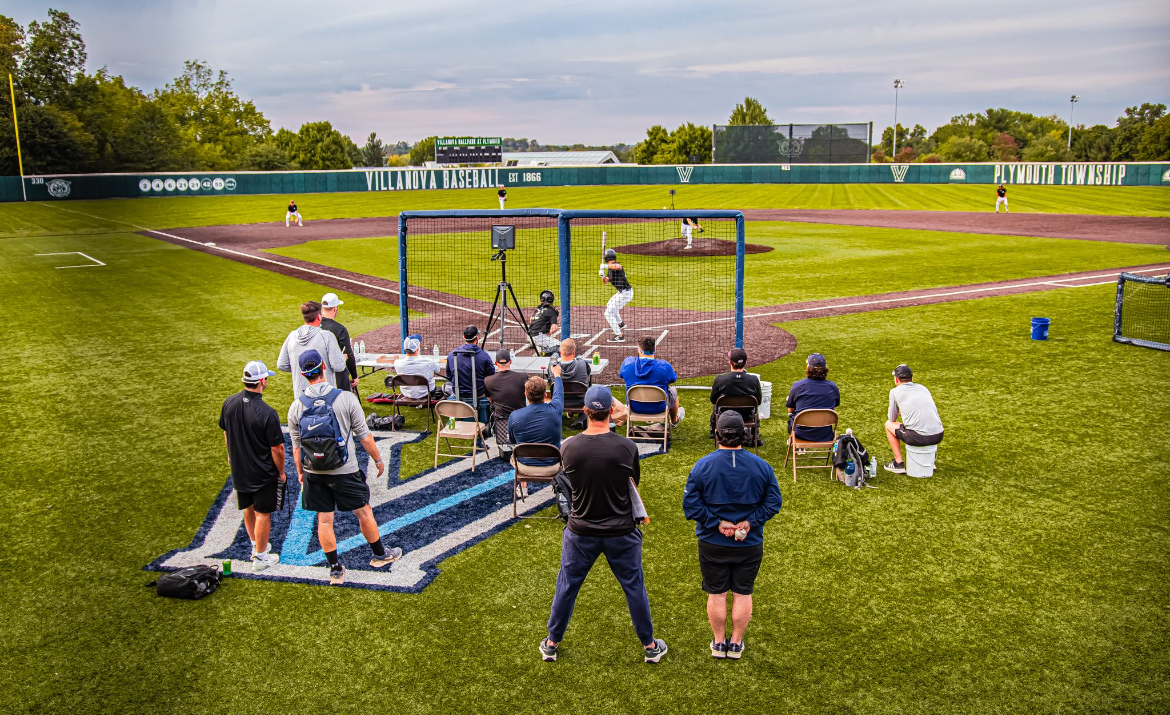
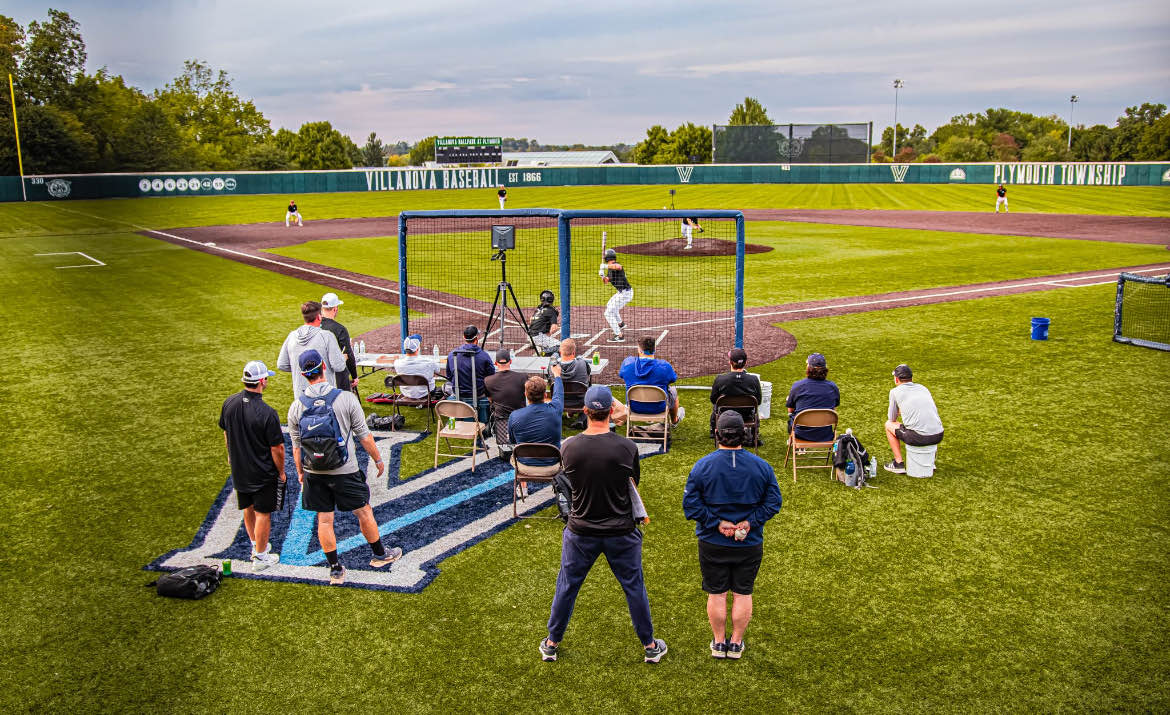
SEO: compress images (24MB→2MB), add breadcrumbs, improve schema, convert PNGs to JPG

diff --git a/index.html b/index.html
@@ -34,22 +34,40 @@
     <link rel="canonical" href="https://nextlevelprospects.vercel.app/">
     <meta name="theme-color" content="#000000">
 
-    <!-- Structured Data -->
+    <!-- Structured Data: Organization -->
     <script type="application/ld+json">
     {
       "@context": "https://schema.org",
-      "@type": "ProfessionalService",
+      "@type": "Organization",
       "name": "Next Level Prospects",
-      "description": "Elite college baseball recruiting advisory guiding student-athletes and families through the recruiting process.",
+      "description": "Elite college baseball recruiting advisory guiding student-athletes and families through every step of the college recruiting process. Trusted connections with coaches at D1, D2, D3, JUCO, and NAIA programs.",
       "url": "https://nextlevelprospects.vercel.app",
       "telephone": "+1-215-275-7667",
       "email": "nextlevelprospectsdo@gmail.com",
+      "logo": "https://nextlevelprospects.vercel.app/images/NLP_Logo.jpg",
+      "image": "https://nextlevelprospects.vercel.app/images/NLP_Logo.jpg",
       "founder": {"@type": "Person", "name": "Dan Overcash"},
       "foundingDate": "2011",
       "sameAs": ["https://x.com/NextLVLProspect"],
       "areaServed": {"@type": "Country", "name": "United States"},
-      "serviceType": "College Baseball Recruiting Advisory",
-      "priceRange": "$$"
+      "knowsAbout": ["College Baseball Recruiting", "D1 Baseball", "D3 Baseball", "NAIA Baseball", "JUCO Baseball", "Student Athlete Development"],
+      "aggregateRating": {
+        "@type": "AggregateRating",
+        "ratingValue": "5.0",
+        "reviewCount": "32",
+        "bestRating": "5"
+      }
+    }
+    </script>
+
+    <!-- Structured Data: BreadcrumbList -->
+    <script type="application/ld+json">
+    {
+      "@context": "https://schema.org",
+      "@type": "BreadcrumbList",
+      "itemListElement": [
+        {"@type": "ListItem", "position": 1, "name": "Home", "item": "https://nextlevelprospects.vercel.app/"}
+      ]
     }
     </script>
 </head>
@@ -190,13 +208,13 @@
             <div class="commits-slider commits-slider--mobile">
                 <div class="commits-slider__track">
                     <div class="commit-card">
-                        <img src="images/commits/Frankie_PNG.png" alt="Frankie - Commit" class="commit-card__image">
+                        <img src="images/commits/Frankie_PNG.jpg" alt="Frankie - Commit" class="commit-card__image">
                     </div>
                     <div class="commit-card">
-                        <img src="images/commits/Caplan_PNG.png" alt="Caplan - Commit" class="commit-card__image">
+                        <img src="images/commits/Caplan_PNG.jpg" alt="Caplan - Commit" class="commit-card__image">
                     </div>
                     <div class="commit-card">
-                        <img src="images/commits/Freed.PNG" alt="Freed - Commit" class="commit-card__image">
+                        <img src="images/commits/Freed.jpg" alt="Freed - Commit" class="commit-card__image">
                     </div>
                     <div class="commit-card">
                         <img src="images/commits/commit-1.jpg" alt="Uli - Commit" class="commit-card__image">
@@ -208,22 +226,22 @@
                         <img src="images/commits/commit-3.jpg" alt="Ruggiero - Commit" class="commit-card__image">
                     </div>
                     <div class="commit-card">
-                        <img src="images/commits/bowman.PNG" alt="Bowman - NC State" class="commit-card__image">
+                        <img src="images/commits/bowman.jpg" alt="Bowman - NC State" class="commit-card__image">
                     </div>
                     <div class="commit-card">
-                        <img src="images/commits/olson.PNG" alt="Olson - Coastal Carolina" class="commit-card__image">
+                        <img src="images/commits/olson.jpg" alt="Olson - Coastal Carolina" class="commit-card__image">
                     </div>
                     <div class="commit-card">
-                        <img src="images/commits/ecker.PNG" alt="Ecker - William & Mary" class="commit-card__image">
+                        <img src="images/commits/ecker.jpg" alt="Ecker - William & Mary" class="commit-card__image">
                     </div>
                     <div class="commit-card">
-                        <img src="images/commits/koshkin.PNG" alt="Decembrino - DeSales" class="commit-card__image">
+                        <img src="images/commits/koshkin.jpg" alt="Decembrino - DeSales" class="commit-card__image">
                     </div>
                     <div class="commit-card">
-                        <img src="images/commits/nova.PNG" alt="Caplan - Rochester Institute of Tech" class="commit-card__image">
+                        <img src="images/commits/nova.jpg" alt="Caplan - Rochester Institute of Tech" class="commit-card__image">
                     </div>
                     <div class="commit-card">
-                        <img src="images/commits/taylor.PNG" alt="Taylor - UMBC" class="commit-card__image">
+                        <img src="images/commits/taylor.jpg" alt="Taylor - UMBC" class="commit-card__image">
                     </div>
                 </div>
                 <div class="commits-slider__nav">

diff --git a/commits.html b/commits.html
@@ -9,6 +9,19 @@
     <link rel="preconnect" href="https://fonts.gstatic.com" crossorigin>
     <link href="https://fonts.googleapis.com/css2?family=Montserrat:wght@300;400;500;600;700;800&family=Playfair+Display:wght@400;500;600;700&display=swap" rel="stylesheet">
     <link rel="stylesheet" href="css/styles.css">
+    <link rel="canonical" href="https://nextlevelprospects.vercel.app/commits.html">
+
+    <!-- Structured Data: BreadcrumbList -->
+    <script type="application/ld+json">
+    {
+      "@context": "https://schema.org",
+      "@type": "BreadcrumbList",
+      "itemListElement": [
+        {"@type": "ListItem", "position": 1, "name": "Home", "item": "https://nextlevelprospects.vercel.app/"},
+        {"@type": "ListItem", "position": 2, "name": "Our Commits", "item": "https://nextlevelprospects.vercel.app/commits.html"}
+      ]
+    }
+    </script>
 </head>
 <body>
     <!-- Navigation -->

diff --git a/gallery.html b/gallery.html
@@ -9,6 +9,19 @@
     <link rel="preconnect" href="https://fonts.gstatic.com" crossorigin>
     <link href="https://fonts.googleapis.com/css2?family=Montserrat:wght@300;400;500;600;700;800&family=Playfair+Display:wght@400;500;600;700&display=swap" rel="stylesheet">
     <link rel="stylesheet" href="css/styles.css">
+    <link rel="canonical" href="https://nextlevelprospects.vercel.app/gallery.html">
+
+    <!-- Structured Data: BreadcrumbList -->
+    <script type="application/ld+json">
+    {
+      "@context": "https://schema.org",
+      "@type": "BreadcrumbList",
+      "itemListElement": [
+        {"@type": "ListItem", "position": 1, "name": "Home", "item": "https://nextlevelprospects.vercel.app/"},
+        {"@type": "ListItem", "position": 2, "name": "Gallery", "item": "https://nextlevelprospects.vercel.app/gallery.html"}
+      ]
+    }
+    </script>
 </head>
 <body>
     <!-- Navigation -->
